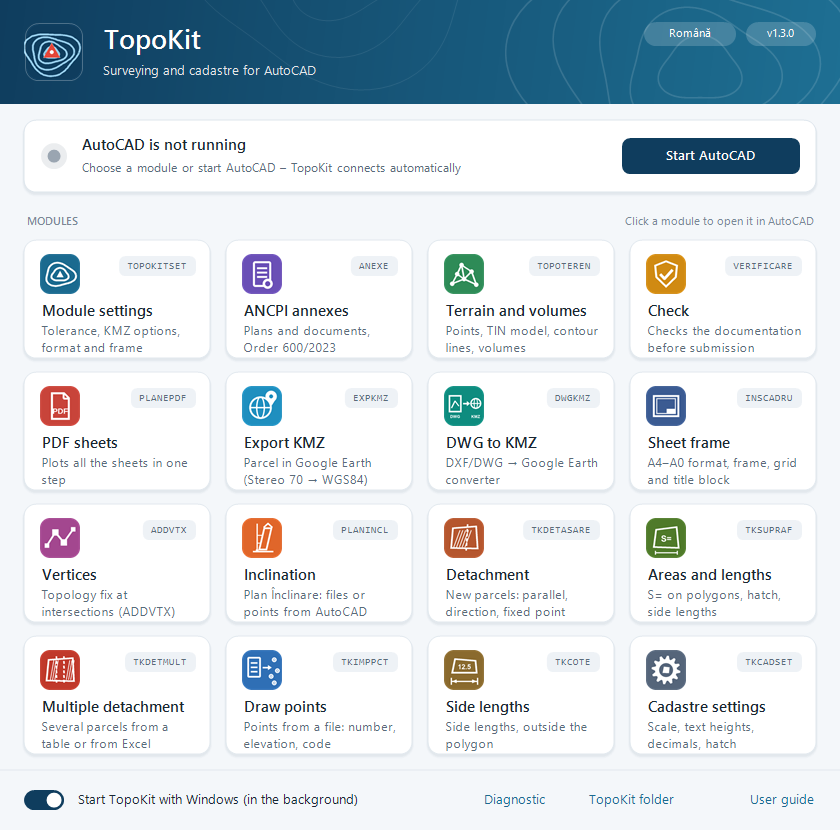
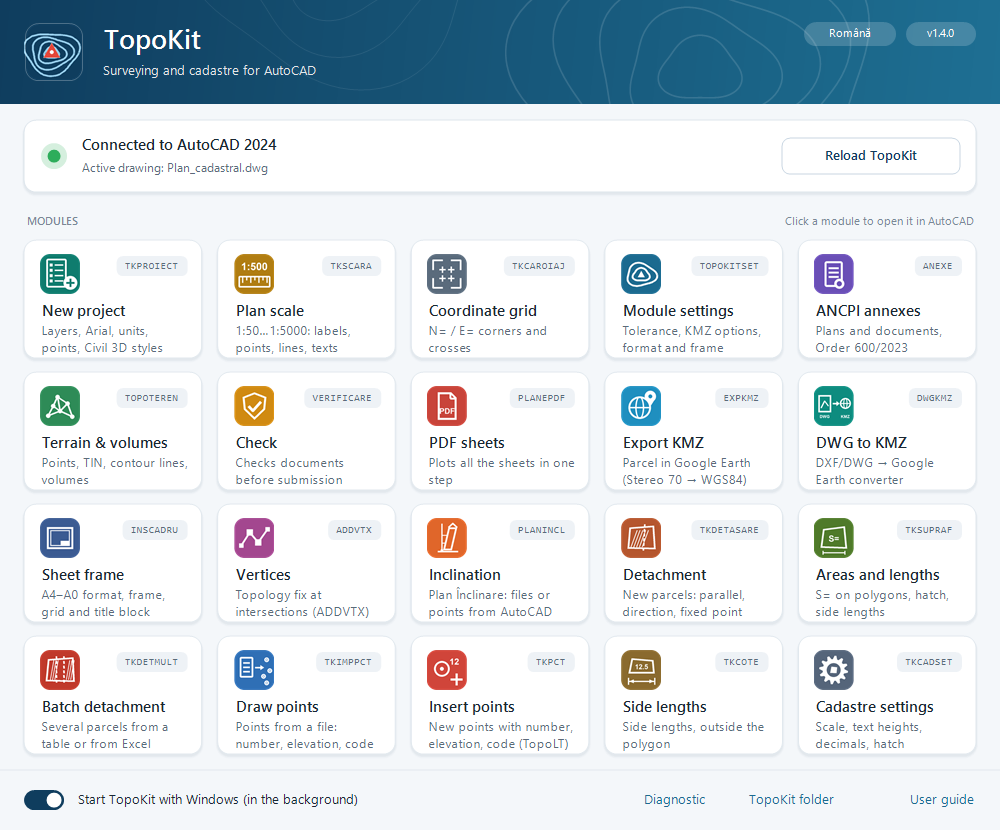
TopoKit 1.4.0: project cards in the TopoKit window, ribbon menu reloads after updates
The TopoKit window now shows 20 cards on 5 columns: Proiect nou, Scara
planului and Caroiaj come first, Introducere puncte fills the last row.
The ribbon menu stays loaded between AutoCAD sessions, so after an update
the new Proiect panel did not appear; TopoKitLoad now remembers the .cuix
size and date per session and reloads the menu once when they change.

Version 1.4.0: new features bump the minor number, fixes the patch number.

diff --git a/installer/launcher/ui.c b/installer/launcher/ui.c
@@ -27,22 +27,28 @@
 #include "ui.h"
 
 #ifndef TK_VERSION
-#define TK_VERSION "1.3.0"
+#define TK_VERSION "1.4.0"
 #endif
 #define UI_CLASS L"TopoKitMainWnd"
-#define W_DIP 840
+#define W_DIP 1000
 #define H_DIP 830
 
 /* Cardurile modulelor - aceeasi ordine ca tabelul CMDS din topokit.c */
 static const struct { const wchar_t *title, *desc, *title_en, *desc_en, *cmd; ARGB accent; } TILES[] = {
+    { L"Proiect nou", L"Straturi, Arial, unități, puncte, stiluri Civil 3D",
+      L"New project", L"Layers, Arial, units, points, Civil 3D styles", L"TKPROIECT", 0xFF0F7C6E },
+    { L"Scara planului", L"1:50…1:5000: etichete, puncte, linii, texte",
+      L"Plan scale", L"1:50…1:5000: labels, points, lines, texts", L"TKSCARA", 0xFFB07D12 },
+    { L"Caroiaj", L"Colțuri N= / E= și cruciulițe",
+      L"Coordinate grid", L"N= / E= corners and crosses", L"TKCAROIAJ", 0xFF5A6B7C },
     { L"Setări module", L"Toleranță, opțiuni KMZ, format și cadru",
       L"Module settings", L"Tolerance, KMZ options, format and frame", L"TOPOKITSET", 0xFF1B6A8F },
     { L"Anexe ANCPI", L"Planuri și documente, Ordinul 600/2023",
       L"ANCPI annexes", L"Plans and documents, Order 600/2023", L"ANEXE", 0xFF6A4FB6 },
-    { L"Teren și volume", L"Puncte, model TIN, curbe de nivel, calcul de volume",
-      L"Terrain and volumes", L"Points, TIN model, contour lines, volumes", L"TOPOTEREN", 0xFF2E8B57 },
+    { L"Teren și volume", L"Puncte, TIN, curbe de nivel, volume",
+      L"Terrain & volumes", L"Points, TIN, contour lines, volumes", L"TOPOTEREN", 0xFF2E8B57 },
     { L"Verificare", L"Controlul documentației înainte de predare",
-      L"Check", L"Checks the documentation before submission", L"VERIFICARE", 0xFFD08A12 },
+      L"Check", L"Checks documents before submission", L"VERIFICARE", 0xFFD08A12 },
     { L"Planșe PDF", L"Plotarea tuturor planșelor într-un singur pas",
       L"PDF sheets", L"Plots all the sheets in one step", L"PLANEPDF", 0xFFC8443A },
     { L"Export KMZ", L"Parcela în Google Earth (Stereo 70 → WGS84)",
@@ -60,15 +66,17 @@ static const struct { const wchar_t *title, *desc, *title_en, *desc_en, *cmd; AR
     { L"Suprafețe și cote", L"S= pe poligoane, hașură, lungimi laturi",
       L"Areas and lengths", L"S= on polygons, hatch, side lengths", L"TKSUPRAF", 0xFF4F7A2A },
     { L"Detașare multiplă", L"Mai multe parcele dintr-un tabel sau din Excel",
-      L"Multiple detachment", L"Several parcels from a table or from Excel", L"TKDETMULT", 0xFFC0392B },
+      L"Batch detachment", L"Several parcels from a table or from Excel", L"TKDETMULT", 0xFFC0392B },
     { L"Raportare puncte", L"Puncte din fișier: număr, cotă și cod",
       L"Draw points", L"Points from a file: number, elevation, code", L"TKIMPPCT", 0xFF2F6FB5 },
+    { L"Introducere puncte", L"Puncte noi cu număr, cotă și cod (TopoLT)",
+      L"Insert points", L"New points with number, elevation, code (TopoLT)", L"TKPCT", 0xFFD0453A },
     { L"Cote laturi", L"Lungimile laturilor, spre exteriorul poligonului",
       L"Side lengths", L"Side lengths, outside the polygon", L"TKCOTE", 0xFF8A6A2E },
     { L"Setări cadastru", L"Scara, înălțimi text, zecimale, hașură",
       L"Cadastre settings", L"Scale, text heights, decimals, hatch", L"TKCADSET", 0xFF55657A },
 };
-#define NTILES 16
+#define NTILES 20
 
 /* Paleta */
 #define C_BG        0xFFF4F7FA
@@ -85,7 +93,7 @@ static const struct { const wchar_t *title, *desc, *title_en, *desc_en, *cmd; AR
 #define C_WAIT      0xFFE0A030
 
 /* Zonele active */
-enum { HT_NONE = -1, HT_TILE0 = 0, HT_PRIMARY = 20, HT_TOGGLE, HT_FOLDER, HT_HELP, HT_DIAG, HT_LANG };
+enum { HT_NONE = -1, HT_TILE0 = 0, HT_PRIMARY = 32, HT_TOGGLE, HT_FOLDER, HT_HELP, HT_DIAG, HT_LANG };
 
 static HINSTANCE g_inst;
 static HWND g_wnd;
@@ -96,7 +104,7 @@ static int g_hover = HT_NONE, g_pressed = HT_NONE;
 static BOOL g_tracking, g_hiddenOnce;
 
 typedef struct { float x, y, w, h; } R;
-static R g_r[32];                          /* zonele, in DIP */
+static R g_r[48];                          /* zonele, in DIP */
 
 /* ------------------------------------------------------------------ resurse */
 static GpBitmap *LoadPng(int id)
@@ -252,11 +260,11 @@ static void Contour(GpGraphics *g, float cx, float cy, float r, float k, ARGB c,
 static void Layout(void)
 {
     int i;
-    float tw = (W_DIP - 48 - 3 * 16) / 4.0f, th = 118;
+    float tw = (W_DIP - 48 - 4 * 16) / 5.0f, th = 118;     /* 5 coloane x 4 randuri */
     g_r[HT_PRIMARY] = (R){ W_DIP - 24 - 16 - 178, 120 + 18, 178, 36 };
     g_r[HT_LANG] = (R){ W_DIP - 24 - 70 - 10 - 92, 22, 92, 24 };
     for (i = 0; i < NTILES; i++)
-        g_r[HT_TILE0 + i] = (R){ 24 + (i % 4) * (tw + 16), 240 + (i / 4) * (th + 14), tw, th };
+        g_r[HT_TILE0 + i] = (R){ 24 + (i % 5) * (tw + 16), 240 + (i / 5) * (th + 14), tw, th };
     g_r[HT_TOGGLE] = (R){ 24, H_DIP - 44, 250, 28 };
     g_r[HT_HELP] = (R){ W_DIP - 24 - 128, H_DIP - 44, 128, 28 };
     g_r[HT_FOLDER] = (R){ W_DIP - 24 - 128 - 12 - 116, H_DIP - 44, 116, 28 };

diff --git a/tools/make_icons.py b/tools/make_icons.py
@@ -6,7 +6,7 @@
 installer/launcher/:
     topokit.ico, tray_on.ico, tray_off.ico   iconitele programului / barei de sistem
     logo.png                                 sigla din antetul ferestrei TopoKit
-    icons/m1.png ... m12.png                 iconitele modulelor (cardurile ferestrei)
+    icons/m1.png ... m20.png                 iconitele modulelor (cardurile ferestrei)
 installer/art/:
     welcome.bmp (164x314), header.bmp (150x57)   paginile instalatorului NSIS
 docs/topokit_icon.png
@@ -207,11 +207,46 @@ def g_gear(d):          # setari cadastru: roata dintata peste o parcela
     d.polygon([(cx - 22, cy + 18), (cx - 14, cy - 22), (cx + 22, cy - 18), (cx + 18, cy + 20)], fill=W)
 
 
+def g_proiect(d):       # proiect nou: foaie cu straturile standard (benzi) si plus
+    d.rounded_rectangle((40, 30, 170, 214), radius=12, outline=W, width=11)
+    for i, y in enumerate((70, 104, 138, 172)):
+        d.rectangle((62, y - 9, 80, y + 9), fill=W)
+        d.line((94, y, 148, y), fill=W, width=9)
+    d.ellipse((150, 140, 238, 228), fill=W)
+    d.line((194, 158, 194, 210), fill=(0, 0, 0, 0), width=12)
+    d.line((168, 184, 220, 184), fill=(0, 0, 0, 0), width=12)
+
+
+def g_scara(d):         # scara planului: rigla si 1:500
+    d.text((128, 80), "1:500", font=ImageFont.truetype(FONT, 66), fill=W, anchor="mm")
+    d.rounded_rectangle((26, 140, 230, 214), radius=8, outline=W, width=10)
+    for i, x in enumerate(range(52, 214, 26)):
+        d.line((x, 140, x, 168 if i % 2 else 184), fill=W, width=8)
+
+
+def g_caroiaj(d):       # caroiaj: colturi in L cu coordonate si cruciulite
+    for x, y, sx, sy in ((40, 40, 1, 1), (216, 40, -1, 1), (40, 216, 1, -1), (216, 216, -1, -1)):
+        d.line((x + sx * 62, y, x, y, x, y + sy * 62), fill=W, width=11, joint="curve")
+    for x, y in ((100, 100), (156, 100), (100, 156), (156, 156)):
+        d.line((x - 20, y, x + 20, y), fill=W, width=9)
+        d.line((x, y - 20, x, y + 20), fill=W, width=9)
+
+
+def g_pct(d):           # introducere puncte: simbol de punct cu numar si plus
+    d.ellipse((46, 70, 146, 170), outline=W, width=12)
+    d.ellipse((84, 108, 108, 132), fill=W)
+    d.text((176, 74), "12", font=ImageFont.truetype(FONT, 56), fill=W, anchor="mm")
+    d.line((190, 150, 190, 226), fill=W, width=14)
+    d.line((152, 188, 228, 188), fill=W, width=14)
+
+
 # aceeasi ordine ca TILES din installer/launcher/ui.c
-MODULES = [("#1B6A8F", g_menu), ("#6A4FB6", g_doc), ("#2E8B57", g_tin), ("#D08A12", g_check),
+MODULES = [("#0F7C6E", g_proiect), ("#B07D12", g_scara), ("#5A6B7C", g_caroiaj),
+           ("#1B6A8F", g_menu), ("#6A4FB6", g_doc), ("#2E8B57", g_tin), ("#D08A12", g_check),
            ("#C8443A", g_pdf), ("#1F8FBF", g_globe), ("#0E8C7F", g_dwgkmz), ("#3B5B92", g_frame),
            ("#A3478F", g_vertex), ("#E0662A", g_incl), ("#B5562E", g_det), ("#4F7A2A", g_sup),
-           ("#C0392B", g_detmult), ("#2F6FB5", g_points), ("#8A6A2E", g_cote), ("#55657A", g_gear)]
+           ("#C0392B", g_detmult), ("#2F6FB5", g_points), ("#D0453A", g_pct), ("#8A6A2E", g_cote),
+           ("#55657A", g_gear)]
 
 
 def module_icon(color, glyph):
@@ -265,7 +300,7 @@ def installer_art(lg):
 
 
 import sys
-if "--modules" in sys.argv:          # doar iconitele modulelor (m1..m16), restul graficii ramane
+if "--modules" in sys.argv:          # doar iconitele modulelor (m1..m20), restul graficii ramane
     for i, (c, g) in enumerate(MODULES, 1):
         module_icon(c, g).save(OUT / "icons" / f"m{i}.png")
     print("Iconitele modulelor generate in", OUT / "icons")

diff --git a/tests/test_lang.py b/tests/test_lang.py
@@ -184,9 +184,13 @@ M.funcs[Sym("VLA-UNLOAD")] = lambda g: menus.pop(g[1])
 orig_invoke = M.funcs.get(Sym("VLAX-INVOKE"))
 
 
+menu_loads = []
+
+
 def invoke(o, m, *a):
     if o == "menugroups" and str(m).upper() == "LOAD":
         menus["TOPOKIT"] = a[0][:-5]                   # AutoCAD raporteaza fisierul fara extensie
+        menu_loads.append(a[0])
         return ("menugroup", "TOPOKIT")
     return orig_invoke(o, m, *a)
 
@@ -211,8 +215,23 @@ print("Engleza: folderul en inaintea Contents, modulele traduse, meniul TopoKit_
 
 # al doilea desen: nimic nou (aceeasi cale, acelasi meniu)
 loads.clear()
+n_menu = len(menu_loads)
 M.load(os.path.join(contents, "TopoKitLoad.lsp"))
 assert loads == [] and prefs["SupportPath"].split(";")[:2] == sp[:2] and len(menus) == 1
+call(Sym("TKL:RIBBON"), [win(contents)])
+assert len(menu_loads) == n_menu, "acelasi .cuix: meniul nu se reincarca"
+# dupa o actualizare (alt fisier .cuix, acelasi nume): meniul se reincarca, ca sa apara panourile noi
+with open(os.path.join(contents, "TopoKit_EN.cuix"), "ab") as fh:
+    fh.write(bytes(16))
+call(Sym("TKL:RIBBON"), [win(contents)])
+assert len(menu_loads) == n_menu + 1 and menus == {"TOPOKIT": win(contents) + r"\TopoKit_EN"}, (menu_loads, menus)
+call(Sym("TKL:RIBBON"), [win(contents)])
+assert len(menu_loads) == n_menu + 1, "o singura reincarcare pe sesiune"
+# meniul ramas incarcat din sesiunea trecuta (blackboard gol): se reincarca o data
+acad.bb.clear()
+call(Sym("TKL:RIBBON"), [win(contents)])
+assert len(menu_loads) == n_menu + 2
+print("Ribbon: meniul se reincarca doar cand fisierul .cuix s-a schimbat (o data pe sesiune)")
 
 # ---------------------------------------------------------------- inapoi la romana
 loads.clear()

diff --git a/tests/acad_sim.py b/tests/acad_sim.py
@@ -260,6 +260,7 @@ class Acad:
                   "CVPORT": 2, "CMDECHO": 1, "OSMODE": 0, "ATTREQ": 1, "DIMZIN": 8, "TILEMODE": 1,
                   "BACKGROUNDPLOT": 2}
         s.envs, s.ldata, s.inputs, s.out, s.alerts, s.cmds, s.runs, s.plots = {}, {}, [], [], [], [], [], []
+        s.bb = {}                                   # blackboard (vl-bb-set / vl-bb-ref), comun desenelor
         s.layouts = {"MODEL": Obj("layout", name="Model", vp_init=True),
                      "LAYOUT1": Obj("layout", name="Layout1", vp_init=False)}
         s.vpid = 1; s.vpfrozen = {}
@@ -601,6 +602,10 @@ class Acad:
             "VL-FILE-DIRECTORY-P": lambda f: T if os.path.isdir(s.path(f)) else None,
             "VL-MKDIR": lambda f: os.makedirs(s.path(f), exist_ok=True) or T,
             "VL-FILE-DELETE": lambda f: (os.remove(s.path(f)) or T) if os.path.exists(s.path(f)) else None,
+            "VL-FILE-SIZE": lambda f: os.path.getsize(s.path(f)) if os.path.isfile(s.path(f)) else None,
+            "VL-FILE-SYSTIME": lambda f: list(__import__("time").localtime(os.path.getmtime(s.path(f)))[:6]) if os.path.isfile(s.path(f)) else None,
+            "VL-BB-SET": lambda k, v: s.bb.__setitem__(str(k).upper(), v) or v,
+            "VL-BB-REF": lambda k: s.bb.get(str(k).upper()),
             "VL-FILE-RENAME": lambda a, b: (os.rename(s.path(a), s.path(b)) or T) if os.path.exists(s.path(a)) and not os.path.exists(s.path(b)) else None,
             "VL-REGISTRY-READ": lambda *a: None, "VL-REGISTRY-WRITE": lambda *a: a[-1] if a else None,
             "VL-FILENAME-MKTEMP": lambda p=None, d=None, ext="": os.path.join(s.outdir, f"{p or 'tmp'}_{len(s.order)}{ext or ''}"),

diff --git a/installer/launcher/topokit.c b/installer/launcher/topokit.c
@@ -57,6 +57,9 @@ enum { ID_STATUS = 1000, ID_CMD0 = 1001, ID_OPEN = 1099, ID_START = 1100, ID_REL
        ID_FOLDER, ID_HELP, ID_EXIT, ID_LANG, HOTKEY_ID = 1 };
 
 static const struct { const wchar_t *label, *label_en, *cmd; } CMDS[] = {
+    { L"Proiect nou (straturi, unități, stiluri)", L"New project (layers, units, styles)", L"TKPROIECT" },
+    { L"Scara planului", L"Plan scale", L"TKSCARA" },
+    { L"Caroiaj de coordonate", L"Coordinate grid", L"TKCAROIAJ" },
     { L"Setări module (TopoKit)", L"Module settings (TopoKit)", L"TOPOKITSET" },
     { L"Generator anexe (Ordin ANCPI 600/2023)", L"Annex generator (ANCPI Order 600/2023)", L"ANEXE" },
     { L"Teren: puncte, TIN, curbe de nivel, volume", L"Terrain: points, TIN, contour lines, volumes", L"TOPOTEREN" },
@@ -71,6 +74,7 @@ static const struct { const wchar_t *label, *label_en, *cmd; } CMDS[] = {
     { L"Suprafețe (S=, hașură)", L"Areas (S=, hatch)", L"TKSUPRAF" },
     { L"Detașare multiplă", L"Multiple detachment", L"TKDETMULT" },
     { L"Raportare puncte din fișier", L"Draw points from file", L"TKIMPPCT" },
+    { L"Introducere puncte", L"Insert points", L"TKPCT" },
     { L"Cote laturi", L"Side lengths", L"TKCOTE" },
     { L"Setări cadastru", L"Cadastre settings", L"TKCADSET" },
 };

diff --git a/tests/test_loader.py b/tests/test_loader.py
@@ -53,8 +53,8 @@ for c in ("C:TOPOKIT", "C:ANEXE", "C:TOPOTEREN", "C:TOPOKITRELOAD", "C:EXPKMZ"):
     assert defined(c), c
 assert dirs(prefs["SupportPath"])[0] == win_root and len(dirs(prefs["SupportPath"])) == 3, prefs
 assert acad.vars["TRUSTEDPATHS"] == win_root + "\\...", acad.vars["TRUSTEDPATHS"]
-assert any("TopoKit 1.3.0 pregatit" in o for o in acad.out), acad.out[-3:]
-assert "LoadedAt" in written and written["LoadedIn"].startswith("TopoKit 1.3.0 / ") and written["LoadedIn"].endswith("test.dwg"), written
+assert any("TopoKit 1.4.0 pregatit" in o for o in acad.out), acad.out[-3:]
+assert "LoadedAt" in written and written["LoadedIn"].startswith("TopoKit 1.4.0 / ") and written["LoadedIn"].endswith("test.dwg"), written
 print("Prima incarcare: TopoKit, Anexe, Teren; cale de suport si TRUSTEDPATHS actualizate")
 
 # ---------------------------------------------------------------- desen nou: fara dubluri, fara reincarcare

diff --git a/tests/test_inclinare.py b/tests/test_inclinare.py
@@ -115,7 +115,7 @@ n0 = len(acad.dcl.log)
 fn("c:TOPOKIT")
 assert acad.dcl.log[n0:] == ["topokit_main", "tki_main"], acad.dcl.log[n0:]
 snap = acad.dcl.snapshots["topokit_main"]
-assert snap["tiles"]["tx_titlu"].startswith("TopoKit 1.3.0") and "INCLINARE" in snap["tiles"]["tx_incl"]
+assert snap["tiles"]["tx_titlu"].startswith("TopoKit 1.4.0") and "INCLINARE" in snap["tiles"]["tx_incl"]
 assert "TransDatRO" in snap["tiles"]["tx_status"] or "Helmert" in snap["tiles"]["tx_status"], snap["tiles"]["tx_status"]
 icons = snap["images"]
 assert len(icons) == 11 and all(icons[k] for k in icons), sorted(icons)          # antet + 10 pictograme

diff --git a/tools/build_installer.py b/tools/build_installer.py
@@ -1,7 +1,7 @@
 #!/usr/bin/env python3
 """Construieste instalatorul Windows TopoKitSetup.exe.
 
-    python3 tools/build_installer.py [--version 1.3.0] [--out dist]
+    python3 tools/build_installer.py [--version 1.4.0] [--out dist]
 
 Necesita (Linux: apt install nsis mingw-w64; Windows: NSIS 3 + MinGW-w64 in PATH):
     makensis, x86_64-w64-mingw32-gcc, x86_64-w64-mingw32-windres

diff --git a/dwg2kmz/dwg2kmz.py b/dwg2kmz/dwg2kmz.py
@@ -37,7 +37,7 @@ except Exception:
     HAS_DND = False
 
 APP_NAME = "DWG to KMZ"
-TOPOKIT = "TopoKit 1.3.0"   # programul face parte din TopoKit
+TOPOKIT = "TopoKit 1.4.0"   # programul face parte din TopoKit
 HELP_FILE = "Instructiuni DWG to KMZ.html"
 FLAT_DIST = 0.05  # metri - precizia aproximarii arcelor / curbelor
 

diff --git a/installer/launcher/resource.h b/installer/launcher/resource.h
@@ -2,4 +2,4 @@
 #define IDI_ON  102
 #define IDI_OFF 103
 #define IDR_LOGO  201
-#define IDR_ICON1 211      /* IDR_ICON1 ... IDR_ICON1 + 15: iconitele modulelor */
+#define IDR_ICON1 211      /* IDR_ICON1 ... IDR_ICON1 + 19: iconitele modulelor */

diff --git a/README.md b/README.md
@@ -31,6 +31,7 @@ iconiță proprie pentru **fiecare comandă** TopoKit, grupate pe panouri:
 | Panou | Butoane |
 |---|---|
 | Configurare | Fereastra TopoKit, Setări module, Setări cadastru, Meniul TopoKit, **Limba română / engleză**, Reîncarcă, Comenzi cadastru |
+| Proiect | **Proiect nou** (buton mare), Scara planului, Caroiaj |
 | Puncte | **Raportare puncte**, introducere, pe contur, ștergere, renumerotare, selecție și schimbarea codului, fișier coordonate, import puncte teren, tabel |
 | Suprafețe | **Detașare**, **Detașare multiplă** (butoane mari), Suprafețe (S=), Cote laturi, Suma textelor, Vertexi la intersecții |
 | Anexe ANCPI | Anexe ANCPI, Date imobil, Executant, Vecini, Construcții, Anexe Word, Verificare |
@@ -44,7 +45,9 @@ Iconițele (16 și 32 px) se văd bine pe tema închisă și pe cea deschisă a 
 
 ![Iconițele ribbonului TopoKit](docs/ribbon_iconite.png)
 
-Săgeata din colțul panourilor Configurare, Suprafețe și Model 3D deschide setările respective. Meniul
+Săgeata din colțul panourilor Configurare, Proiect, Suprafețe și Model 3D deschide setările respective.
+După o actualizare, meniul se reîncarcă singur o dată pe sesiune AutoCAD, când fișierul `.cuix` s-a
+schimbat, așa că panourile noi apar fără alți pași. Meniul
 este fișierul `TopoKit.cuix` (sau `TopoKit_EN.cuix` în engleză) din folderul programului, încărcat
 automat de `TopoKitLoad.lsp`; nu modifică meniul principal al AutoCAD.
 
@@ -87,7 +90,7 @@ reîncarcă imediat în desenul curent; celelalte desene deschise trec la prima 
 
 ### Cu instalatorul (recomandat)
 
-1. Descărcați și rulați **[`dist/TopoKitSetup-1.3.0.exe`](dist/TopoKitSetup-1.3.0.exe)** (TopoKit 1.3.0). Nu sunt necesare drepturi
+1. Descărcați și rulați **[`dist/TopoKitSetup-1.4.0.exe`](dist/TopoKitSetup-1.4.0.exe)** (TopoKit 1.4.0). Nu sunt necesare drepturi
    de administrator; instalarea se face pentru utilizatorul curent.
 2. Alegeți opțiunile: scurtătură pe desktop și pornirea în fundal odată cu Windows (ambele bifate implicit).
 3. Deschideți **TopoKit** din meniul Start sau de pe desktop. Atât.
@@ -108,8 +111,9 @@ Ce face instalarea:
   și în *Trusted Locations* (`TRUSTEDPATHS`), apoi încarcă `TopoKit.lsp`, `TopoKitAnexe.lsp` și
   `TopoKitTeren.lsp`. Comanda `TOPOKITRELOAD` reîncarcă modulele.
 - **Fereastra TopoKit** se deschide când porniți programul. Arată starea legăturii cu AutoCAD și
-  cele 16 module (printre ele *Detașare*, *Detașare multiplă*, *Raportare puncte*, *Cote laturi* și
-  *Setări cadastru*), fiecare cu iconița, descrierea și comanda AutoCAD:
+  cele 20 de module, pe 5 coloane. Primele sunt *Proiect nou*, *Scara planului* și *Caroiaj*; printre
+  celelalte sunt *Detașare*, *Detașare multiplă*, *Raportare puncte*, *Introducere puncte*, *Cote laturi*
+  și *Setări cadastru*. Fiecare card are iconița, descrierea și comanda AutoCAD:
 
   ![Fereastra TopoKit](docs/lansator_conectat.png)
 
@@ -152,7 +156,7 @@ Ce face instalarea:
     o anulează prin fereastra AutoCAD (WM_COPYDATA) înainte de a trimite modulul.
 - **Dezinstalare:** *Setări → Aplicații → TopoKit* sau meniul Start → *Dezinstalare TopoKit*. Se șterg
   pachetul AutoCAD, lansatorul și setările din registru.
-- **Instalare silențioasă** (pentru mai multe calculatoare): `TopoKitSetup-1.3.0.exe /S`; dezinstalare:
+- **Instalare silențioasă** (pentru mai multe calculatoare): `TopoKitSetup-1.4.0.exe /S`; dezinstalare:
   `"%LOCALAPPDATA%\Programs\TopoKit\Uninstall.exe" /S`.
 
 Windows SmartScreen poate afișa *„Windows a protejat computerul”*, pentru că instalatorul nu este
